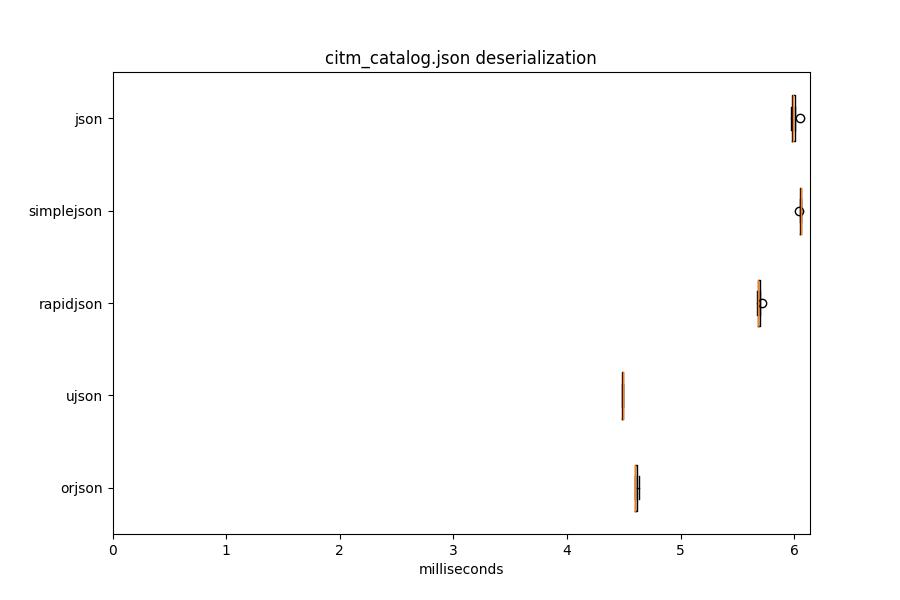
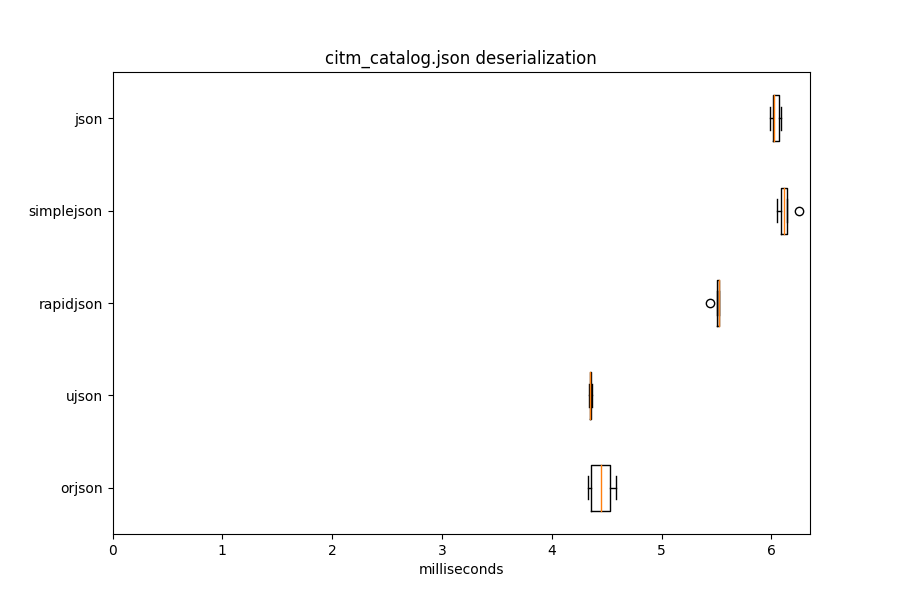
2.0.3

diff --git a/README.md b/README.md
@@ -302,85 +302,85 @@ format, containing floats and arrays, indented.
 
 | Library    |   Median latency (milliseconds) |   Operations per second |   Relative (latency) |
 |------------|---------------------------------|-------------------------|----------------------|
-| orjson     |                            0.49 |                  2034.9 |                 1    |
-| ujson      |                            1.42 |                   703.7 |                 2.89 |
-| rapidjson  |                            1.57 |                   638.5 |                 3.19 |
-| simplejson |                            2.79 |                   358   |                 5.69 |
-| json       |                            2.7  |                   370.3 |                 5.5  |
+| orjson     |                            0.49 |                  2038.2 |                 1    |
+| ujson      |                            1.41 |                   709.1 |                 2.87 |
+| rapidjson  |                            1.57 |                   636.4 |                 3.2  |
+| simplejson |                            2.69 |                   370.5 |                 5.49 |
+| json       |                            2.6  |                   384.6 |                 5.3  |
 
 #### twitter.json deserialization
 
 | Library    |   Median latency (milliseconds) |   Operations per second |   Relative (latency) |
 |------------|---------------------------------|-------------------------|----------------------|
-| orjson     |                            2.4  |                   416.4 |                 1    |
-| ujson      |                            2.25 |                   444.4 |                 0.94 |
-| rapidjson  |                            3.04 |                   328.4 |                 1.27 |
-| simplejson |                            2.49 |                   401.8 |                 1.04 |
-| json       |                            2.82 |                   354.3 |                 1.17 |
+| orjson     |                            2.46 |                   403.8 |                 1    |
+| ujson      |                            2.27 |                   443   |                 0.92 |
+| rapidjson  |                            3.11 |                   320.1 |                 1.26 |
+| simplejson |                            2.48 |                   401.9 |                 1.01 |
+| json       |                            2.85 |                   350.8 |                 1.16 |
 
 #### github.json serialization
 
 | Library    |   Median latency (milliseconds) |   Operations per second |   Relative (latency) |
 |------------|---------------------------------|-------------------------|----------------------|
-| orjson     |                            0.05 |                 18299.4 |                 1    |
-| ujson      |                            0.14 |                  7126.2 |                 2.57 |
-| rapidjson  |                            0.16 |                  6370.2 |                 2.87 |
-| simplejson |                            0.31 |                  3274.2 |                 5.59 |
-| json       |                            0.27 |                  3713   |                 4.93 |
+| orjson     |                            0.05 |                 18670.2 |                 1    |
+| ujson      |                            0.14 |                  7136.1 |                 2.61 |
+| rapidjson  |                            0.16 |                  6384.5 |                 2.92 |
+| simplejson |                            0.31 |                  3192.2 |                 5.82 |
+| json       |                            0.27 |                  3623   |                 5.12 |
 
 #### github.json deserialization
 
 | Library    |   Median latency (milliseconds) |   Operations per second |   Relative (latency) |
 |------------|---------------------------------|-------------------------|----------------------|
-| orjson     |                            0.21 |                  4873.7 |                 1    |
-| ujson      |                            0.22 |                  4493.4 |                 1.08 |
-| rapidjson  |                            0.27 |                  3721.3 |                 1.31 |
-| simplejson |                            0.22 |                  4593.9 |                 1.06 |
-| json       |                            0.24 |                  4142.5 |                 1.18 |
+| orjson     |                            0.2  |                  4988.3 |                 1    |
+| ujson      |                            0.22 |                  4525.8 |                 1.11 |
+| rapidjson  |                            0.27 |                  3698.6 |                 1.35 |
+| simplejson |                            0.23 |                  4371.5 |                 1.14 |
+| json       |                            0.24 |                  4114.8 |                 1.21 |
 
 #### citm_catalog.json serialization
 
 | Library    |   Median latency (milliseconds) |   Operations per second |   Relative (latency) |
 |------------|---------------------------------|-------------------------|----------------------|
-| orjson     |                            0.81 |                  1223.7 |                 1    |
-| ujson      |                            2.66 |                   376   |                 3.27 |
-| rapidjson  |                            2.45 |                   408.7 |                 3.01 |
-| simplejson |                           11    |                    91   |                13.53 |
-| json       |                            6.03 |                   165.8 |                 7.42 |
+| orjson     |                            0.79 |                  1261.8 |                 1    |
+| ujson      |                            2.61 |                   381.6 |                 3.31 |
+| rapidjson  |                            2.48 |                   402.4 |                 3.14 |
+| simplejson |                            9.93 |                   100.7 |                12.59 |
+| json       |                            5.81 |                   172   |                 7.37 |
 
 #### citm_catalog.json deserialization
 
 | Library    |   Median latency (milliseconds) |   Operations per second |   Relative (latency) |
 |------------|---------------------------------|-------------------------|----------------------|
-| orjson     |                            4.6  |                   217   |                 1    |
-| ujson      |                            4.49 |                   222.8 |                 0.98 |
-| rapidjson  |                            5.68 |                   175.8 |                 1.24 |
-| simplejson |                            6.06 |                   165.2 |                 1.32 |
-| json       |                            5.99 |                   166.8 |                 1.3  |
+| orjson     |                            4.45 |                   224.7 |                 1    |
+| ujson      |                            4.35 |                   229.8 |                 0.98 |
+| rapidjson  |                            5.52 |                   181.7 |                 1.24 |
+| simplejson |                            6.11 |                   163.1 |                 1.37 |
+| json       |                            6.02 |                   165.6 |                 1.35 |
 
 #### canada.json serialization
 
 | Library    |   Median latency (milliseconds) |   Operations per second |   Relative (latency) |
 |------------|---------------------------------|-------------------------|----------------------|
-| orjson     |                            4.29 |                   232.4 |                 1    |
-| ujson      |                            8.71 |                   115.7 |                 2.03 |
-| rapidjson  |                           43.69 |                    22.9 |                10.18 |
-| simplejson |                           66.56 |                    15   |                15.51 |
-| json       |                           49.27 |                    19.9 |                11.48 |
+| orjson     |                            4.21 |                   237.7 |                 1    |
+| ujson      |                            8.42 |                   118.4 |                 2    |
+| rapidjson  |                           43.17 |                    23.2 |                10.27 |
+| simplejson |                           62.6  |                    16   |                14.89 |
+| json       |                           47.93 |                    20.9 |                11.4  |
 
 #### canada.json deserialization
 
 | Library    |   Median latency (milliseconds) |   Operations per second |   Relative (latency) |
 |------------|---------------------------------|-------------------------|----------------------|
-| orjson     |                            8.63 |                   116.4 |                 1    |
-| ujson      |                            8.55 |                   116.9 |                 0.99 |
-| rapidjson  |                           29.37 |                    34.1 |                 3.4  |
-| simplejson |                           26.56 |                    37.6 |                 3.08 |
-| json       |                           27.56 |                    36.3 |                 3.19 |
+| orjson     |                            8.56 |                   116.3 |                 1    |
+| ujson      |                            8.24 |                   121.5 |                 0.96 |
+| rapidjson  |                           29.05 |                    34.4 |                 3.39 |
+| simplejson |                           26.85 |                    37   |                 3.14 |
+| json       |                           27.45 |                    36.4 |                 3.21 |
 
 
-This was measured using Python 3.7.2 on Linux with orjson 2.0.0, ujson 1.35,
-python-rapidson 0.6.3, and simplejson 3.16.0.
+This was measured using Python 3.7.2 on Linux with orjson 2.0.3, ujson 1.35,
+python-rapidson 0.7.0, and simplejson 3.16.0.
 
 The results can be reproduced using the `pybench` and `graph` scripts.
 

diff --git a/CHANGELOG.md b/CHANGELOG.md
@@ -1,5 +1,11 @@
 # Changelog
 
+## 2.0.3 - 2019-03-23
+
+### Changed
+
+- `orjson.loads()` uses SSE2 to validate `bytes` input.
+
 ## 2.0.2 - 2019-03-12
 
 ### Changed
